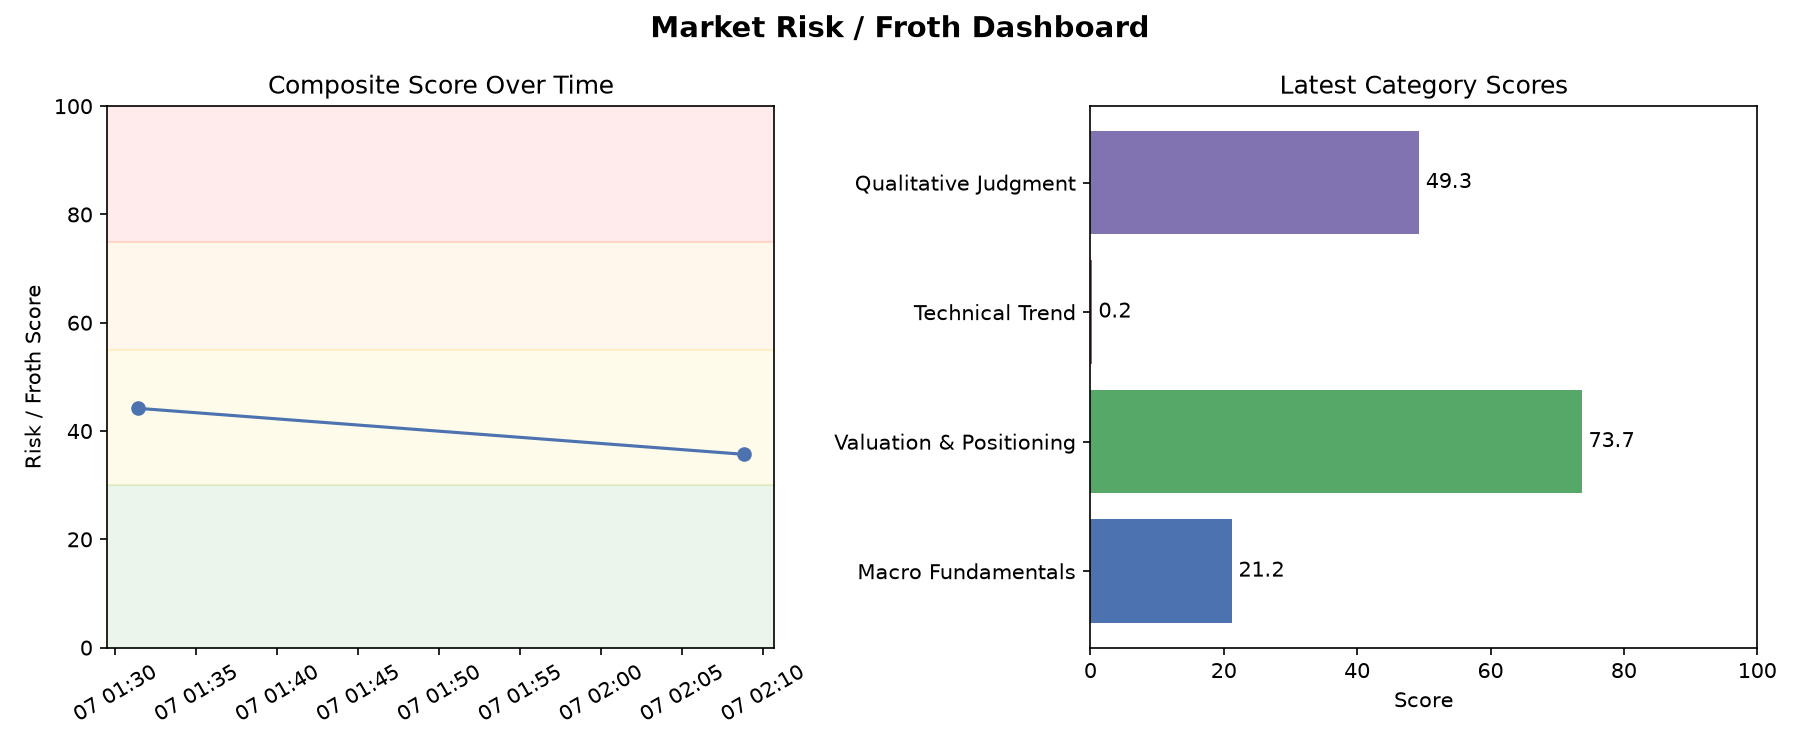
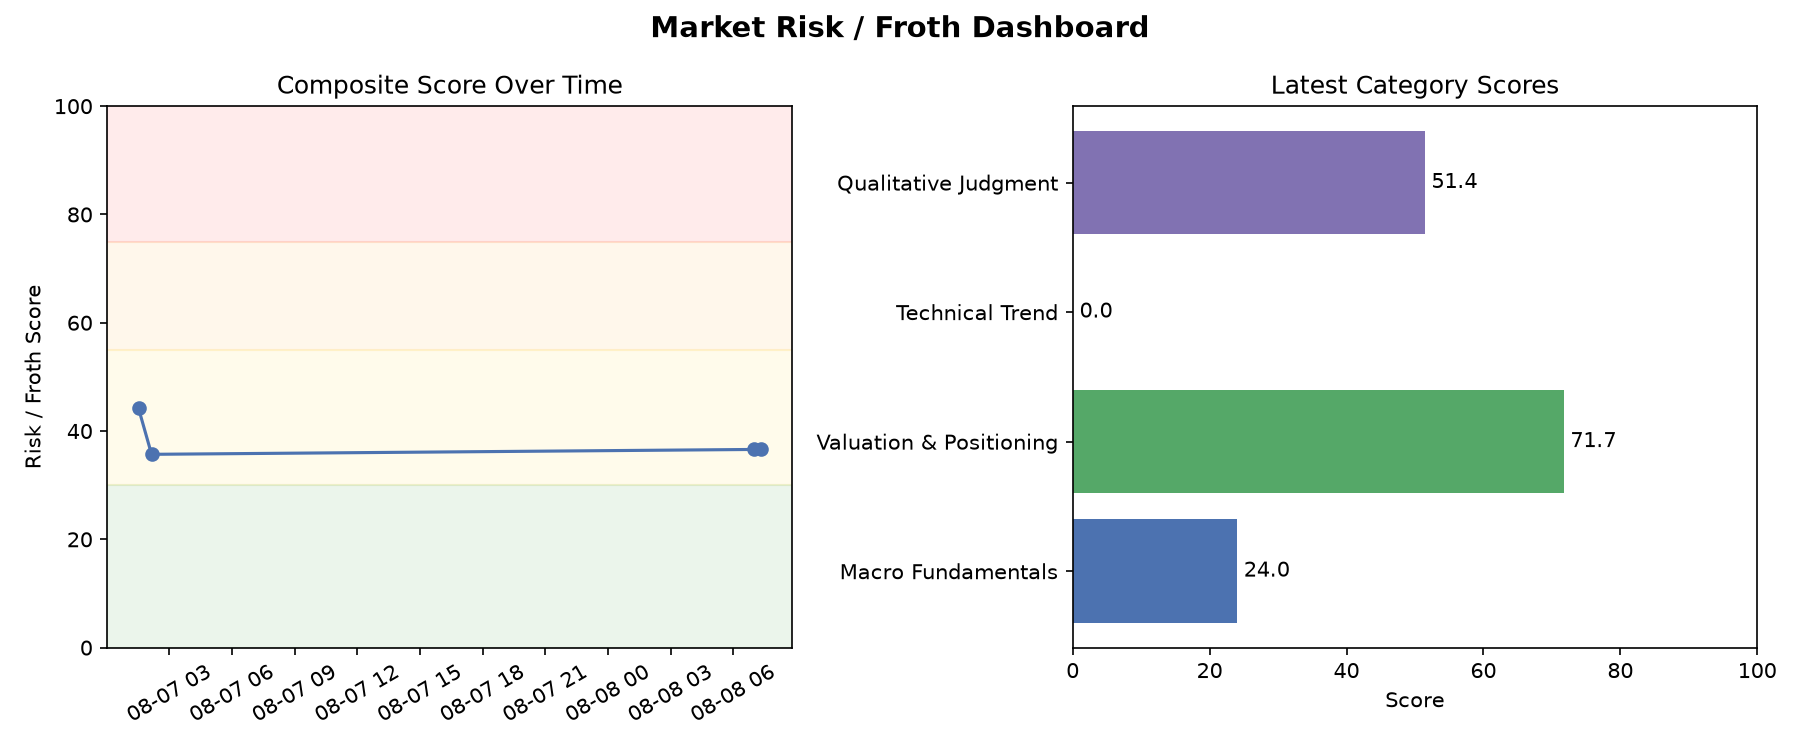
Test run

diff --git a/indicators.py b/indicators.py
@@ -188,7 +188,6 @@ INDICATORS: list[Indicator] = [
         direction="high_is_risk",
         low_risk_value=16,
         high_risk_value=26,
-        fetch_key="rule_of_20",
         source_links=[("Trailing P/E", "https://www.wsj.com/market-data/stocks/peyields"), ("CPI y/y", "https://www.investing.com/economic-calendar/cpi-733")],
     ),
     Indicator(
@@ -225,7 +224,7 @@ INDICATORS: list[Indicator] = [
         note="A separate lens from hy_oas_stress above: how RICH/complacent credit looks, not whether it's stressed.",
         fetch_key="credit_spread_percentile",
     ),
-    
+
     # ---------------- Technical Trend (quant) ----------------
     Indicator(
         key="price_vs_200sma",
